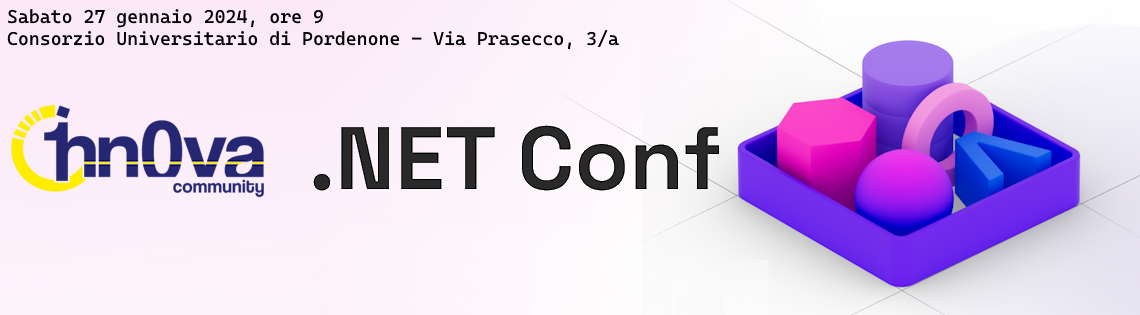
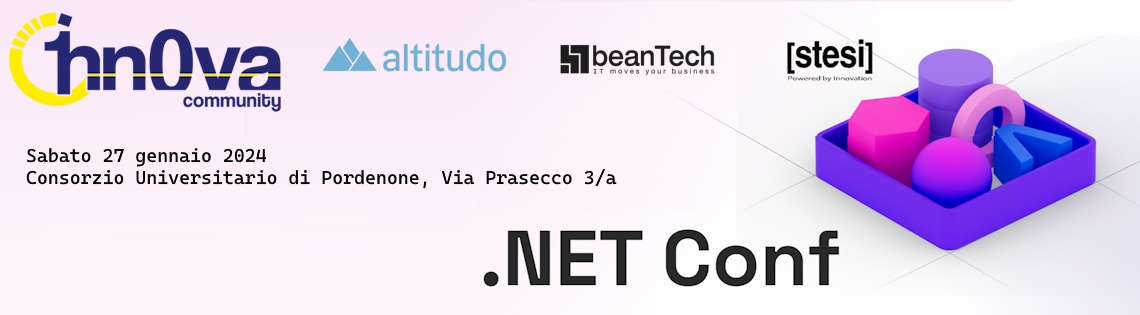
Agenda e sponsor!

Changed region(s): [[0.0, 0.0286, 1.0, 0.9429]]

diff --git a/index.html b/index.html
@@ -64,15 +64,17 @@
         <p class="fs-5 col-md-12">
           Sabato 27 gennaio 2024 arriva .NET Conf 2023 a Pordenone, presso il Consorzio Universitario di Pordenone, in Via Prasecco 3/a.
         </p>
-        <!-- <p class="fs-5 col-md-12">
+        <p class="fs-5 col-md-12">
           Ringraziamo gli sponsor che ci supportanto:
           <ul>
+            <li><a href="https://www.altitudo.com/" target="_blank">Altitudo</a></li>
             <li><a href="https://www.beantech.it/" target="_blank">beanTech</a></li>
-            <li><a href="https://www.fluentis.com/" target="_blank">Fluentis</a></li>
+            <!-- <li><a href="https://www.fluentis.com/" target="_blank">Fluentis</a></li> -->
             <li><a href="https://www.stesi.it/" target="_blank">Stesi</a></li>
-            <li><a href="https://www.packtpub.com/" target="_blank">Packt</a></li>
+            <li><a href="https://www.unipordenone.it/" target="_blank">Consorzio Universitario di Pordenone</a></li>
+            <!-- <li><a href="https://www.packtpub.com/" target="_blank">Packt</a></li> -->
           </ul>
-        </p> -->
+        </p>
         <p class="fs-5 col-md-12">
           Se qualcun è interessato a sponsorizzarci, contattate
           <a href="https://www.linkedin.com/in/marcopozzan/" target="_blank">Marco</a>
@@ -84,8 +86,8 @@
           Quindi, cominciate ad iscrivervi e segnarvi la data in calendario!
         </p>
         <p class="fs-5 col-md-12">
-          <!-- Cominciate a guardare l'agenda <a href="agenda.html">qui</a>. manca ancora qualche sessione, qualche riorganizzazione ci sarà, ma insomma...ci siamo! -->
-          L'agenda è in fase di costruzione, ma oramai ci conoscete e quindi sapete che i contenuti saranno di qualità e avremo grandi speaker!
+          Cominciate a guardare l'agenda <a href="agenda.html">qui</a>. manca ancora qualche sessione, qualche riorganizzazione ci sarà, ma insomma...ci siamo! Tanti contenuti e grandi speaker!
+          <!-- L'agenda è in fase di costruzione, ma oramai ci conoscete e quindi sapete che i contenuti saranno di qualità e avremo grandi speaker! -->
         </p>
         <p class="fs-5 col-md-12">
           Se sei uno speaker, forse vuoi mandarci una proposta alla CfP, dato
